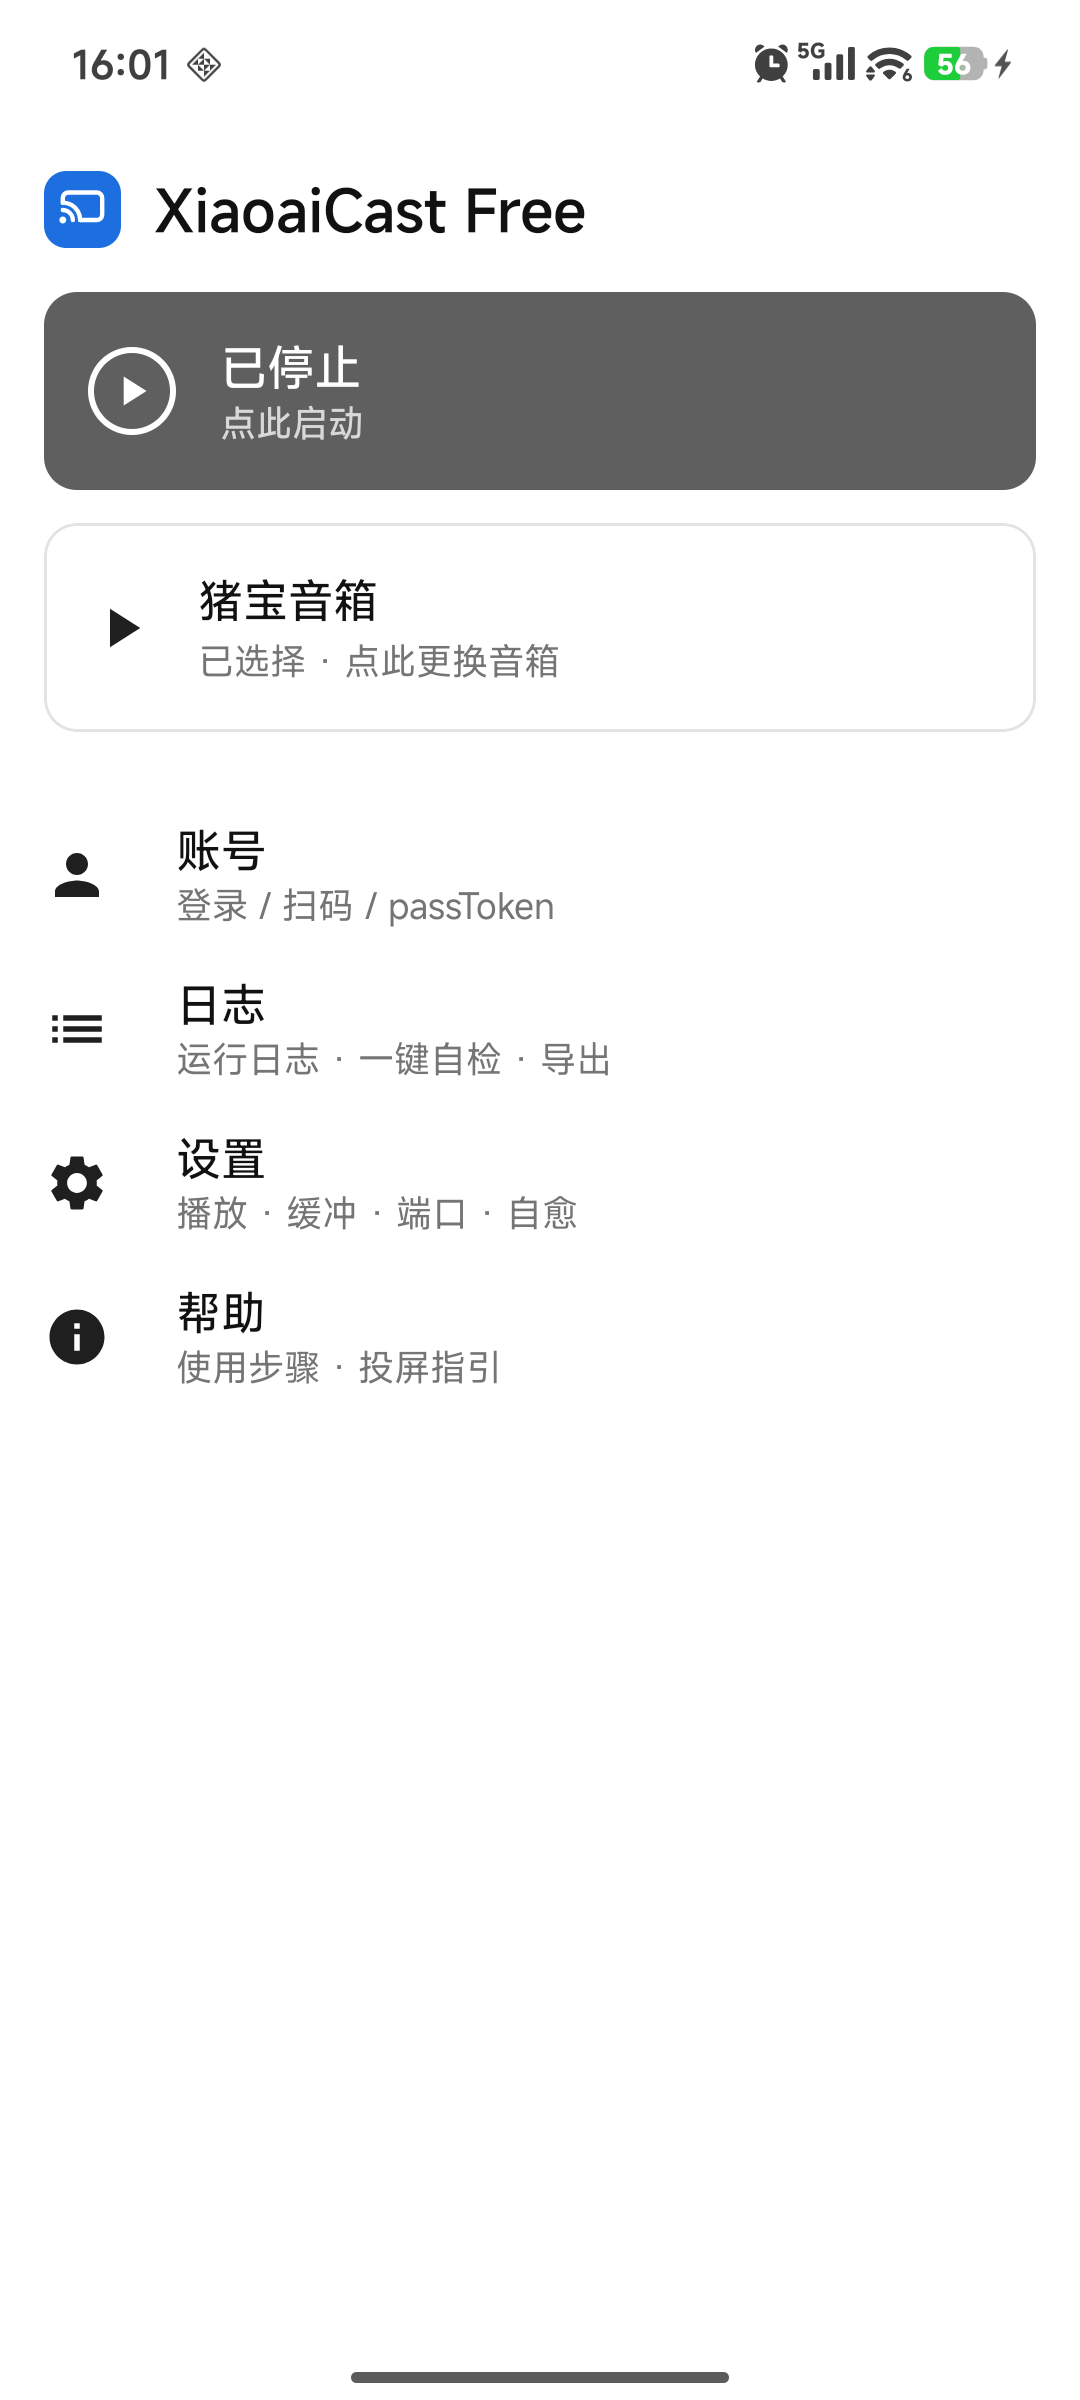
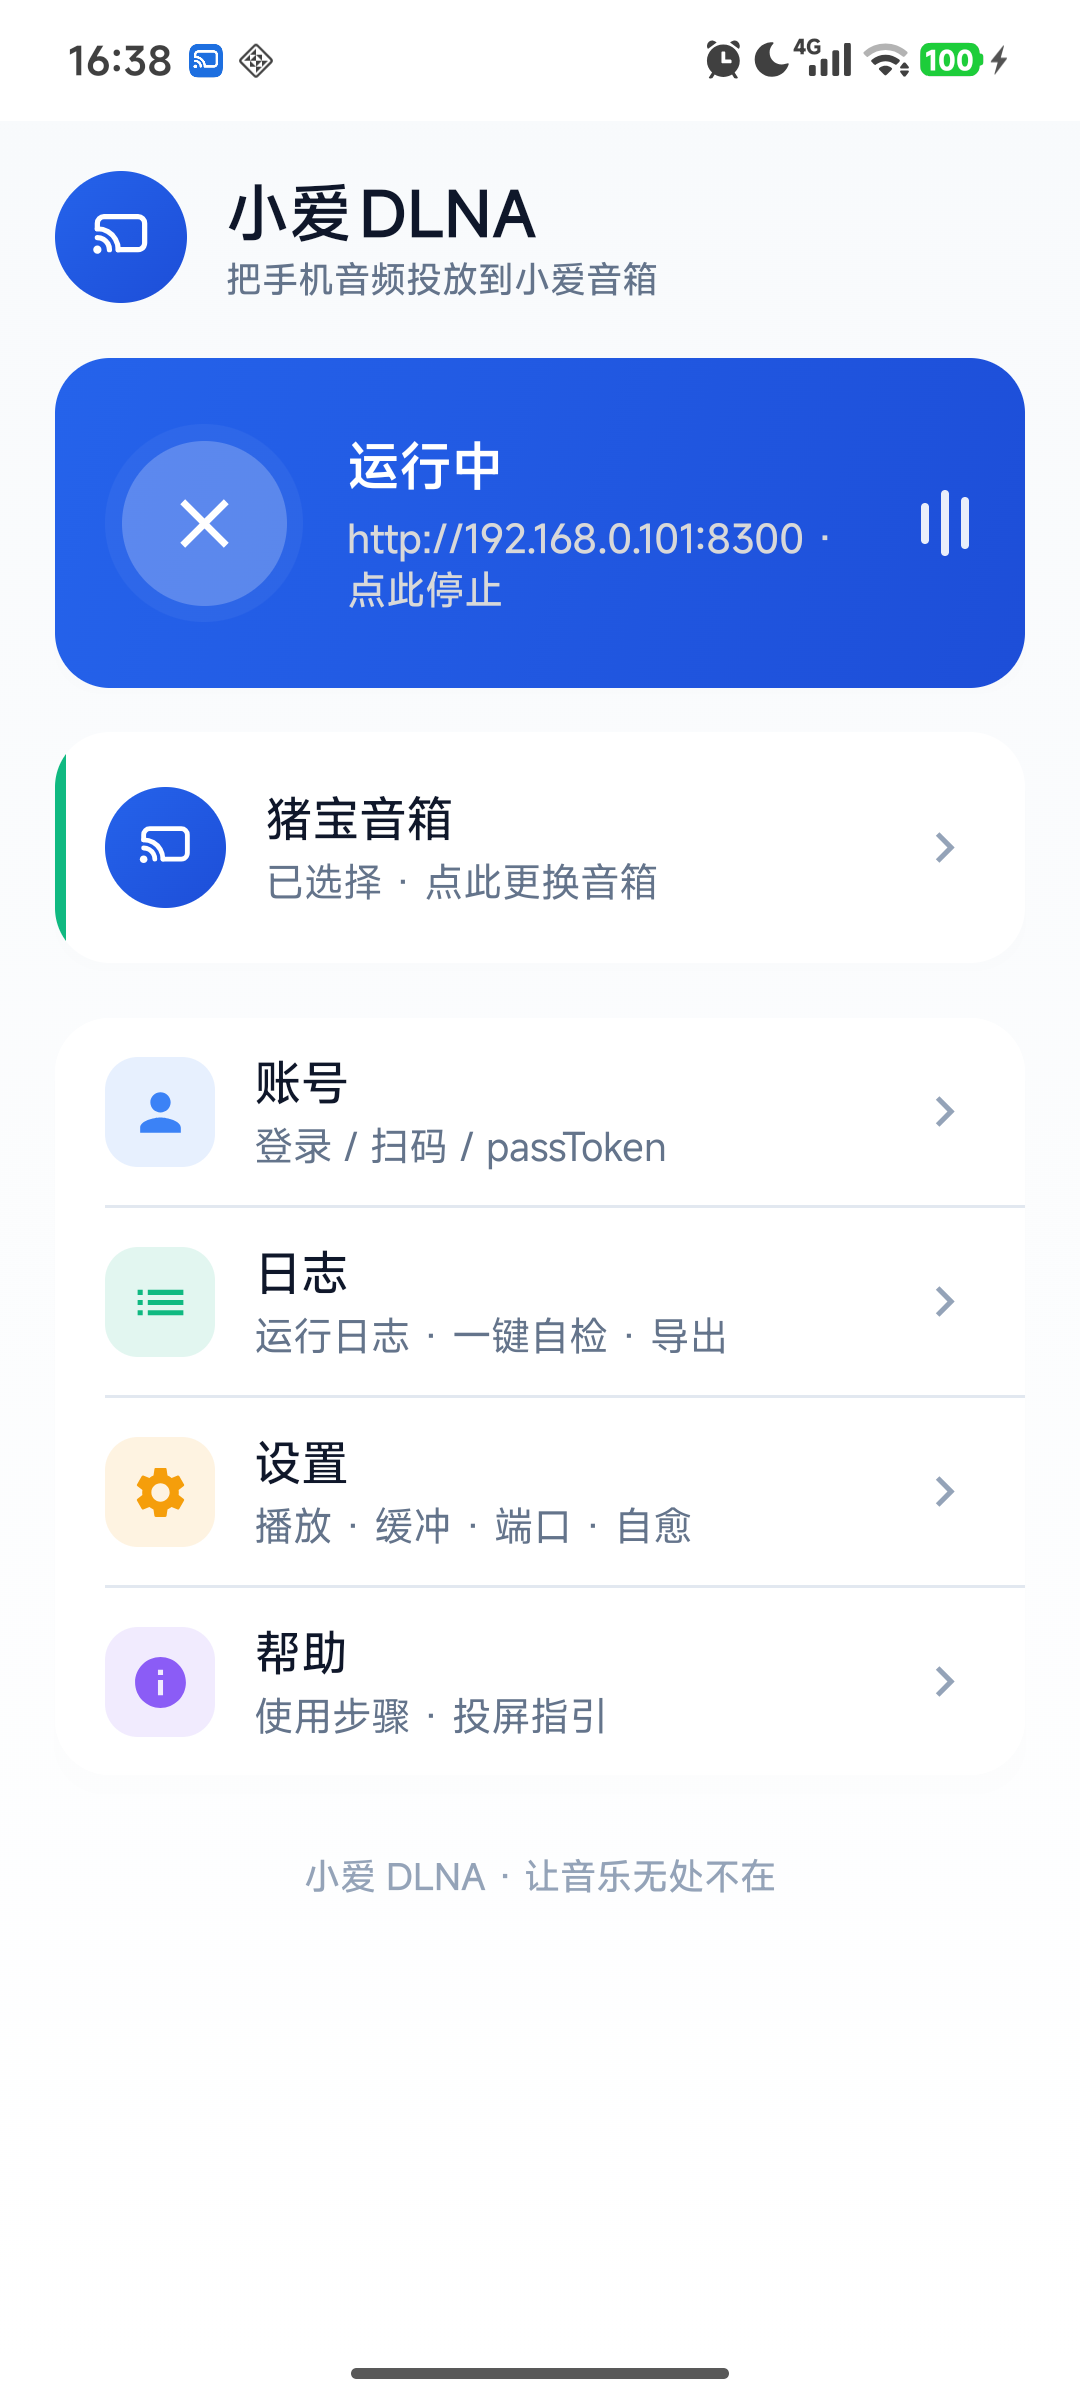
feat: UI 细节修复 + README 补界面预览 + debug 版改名
## UI 修复（真机截图发现）

1. **设置项标题被挤断**
   「使用 player_play_music 接口」中拉丁长词按空格断行，末字「口」被挤到第二行。
   标题改短为「使用 music 接口」，长标识 player_play_music 移到副标题。

2. **输入框标签与框体脱节**
   AXTextField 原用 OutlinedTextField 的 floating label，而本项目输入框边框色设为
   透明（无边框外观）——标签在有值时会浮到「本该有边框」的位置，看起来悬空、
   和输入区像两个独立元素。改为独立的固定标签 + 无 label 输入框，标签始终贴在框内顶部。

## debug 版显示名加后缀

release 与 debug 的显示名原来都是「小爱DLNA」，装机后桌面并排出现两个同名同图图标，
无法区分。给 debug 加 resValue 覆盖 app_name 为「小爱DLNA·调试」。

## README

- 补回「界面预览」章节，只放主页与二级页（设置）两张最新真机截图。
- 截图目录清理：删去 02-account / 03-settings / 04-devices / 05-qr-login 四张旧图
  （均为 UI A 改版前的画面，已无引用），仅保留 01-home 与 02-settings。
- 章节序号顺移：已知限制改十三、免责声明改十四。

## 构建

- `.gitignore` 忽略 `/.wip-uiB/`：UI B（液态玻璃）实验代码暂存于此。
  该目录下的 LiquidComponents.kt 含未解决的引用（EaseInOutCubic），
  留在源码目录会导致整个工程编译失败，故移出源码树。

diff --git a/app/src/main/java/com/tangren/xiaoairc/ui/ComponentsA.kt b/app/src/main/java/com/tangren/xiaoairc/ui/ComponentsA.kt
@@ -414,27 +414,37 @@ fun AXTextField(
     numeric: Boolean = false,
     password: Boolean = false
 ) {
-    OutlinedTextField(
-        value = value,
-        onValueChange = onValueChange,
-        label = { Text(label, fontSize = 12.sp) },
-        singleLine = true,
-        shape = RoundedCornerShape(12.dp),
-        visualTransformation = if (password) PasswordVisualTransformation() else VisualTransformation.None,
-        keyboardOptions = KeyboardOptions(
-            keyboardType = when {
-                numeric -> KeyboardType.Number
-                password -> KeyboardType.Password
-                else -> KeyboardType.Text
-            }
-        ),
-        textStyle = MaterialTheme.typography.bodyMedium,
-        colors = OutlinedTextFieldDefaults.colors(
-            focusedBorderColor = Xc.Accent,
-            unfocusedBorderColor = Color.Transparent,
-            focusedContainerColor = Xc.InputBg,
-            unfocusedContainerColor = Xc.InputBg
-        ),
-        modifier = modifier.fillMaxWidth()
-    )
+    // 用独立的固定标签 + 无 label 的输入框，而不是 OutlinedTextField 的 floating label：
+    // 本项目输入框 borderColor 设成了透明（无边框外观），floating label 在有值时会上浮到
+    // 「本该有边框」的位置，看起来悬空、与输入区脱节。固定标签则始终贴在框内顶部。
+    Column(modifier = modifier.fillMaxWidth()) {
+        Text(
+            label,
+            fontSize = 12.sp,
+            color = Xc.TextSecondary,
+            modifier = Modifier.padding(start = 4.dp, bottom = 6.dp)
+        )
+        OutlinedTextField(
+            value = value,
+            onValueChange = onValueChange,
+            singleLine = true,
+            shape = RoundedCornerShape(12.dp),
+            visualTransformation = if (password) PasswordVisualTransformation() else VisualTransformation.None,
+            keyboardOptions = KeyboardOptions(
+                keyboardType = when {
+                    numeric -> KeyboardType.Number
+                    password -> KeyboardType.Password
+                    else -> KeyboardType.Text
+                }
+            ),
+            textStyle = MaterialTheme.typography.bodyMedium,
+            colors = OutlinedTextFieldDefaults.colors(
+                focusedBorderColor = Xc.Accent,
+                unfocusedBorderColor = Color.Transparent,
+                focusedContainerColor = Xc.InputBg,
+                unfocusedContainerColor = Xc.InputBg
+            ),
+            modifier = Modifier.fillMaxWidth()
+        )
+    }
 }

diff --git a/app/src/main/java/com/tangren/xiaoairc/ui/screens/Settings.kt b/app/src/main/java/com/tangren/xiaoairc/ui/screens/Settings.kt
@@ -81,8 +81,8 @@ fun SettingsScreen(s: AppState, scope: CoroutineScope) {
                 ACard(padding = 0.dp) {
                     SettingSwitchRow(
                         icon = Icons.Filled.PlayArrow,
-                        title = "使用 player_play_music 接口",
-                        subtitle = "L05B / L05C / LX05 等机型必需；未手动改过时按型号自动分派",
+                        title = "使用 music 接口",
+                        subtitle = "即 player_play_music；L05B / L05C / LX05 等机型必需，未手动改过时按型号自动分派",
                         checked = s.useMusicApi
                     ) { s.useMusicApi = it; s.musicApiExplicit = true; s.persistConfig() }
                     ARowDivider()
